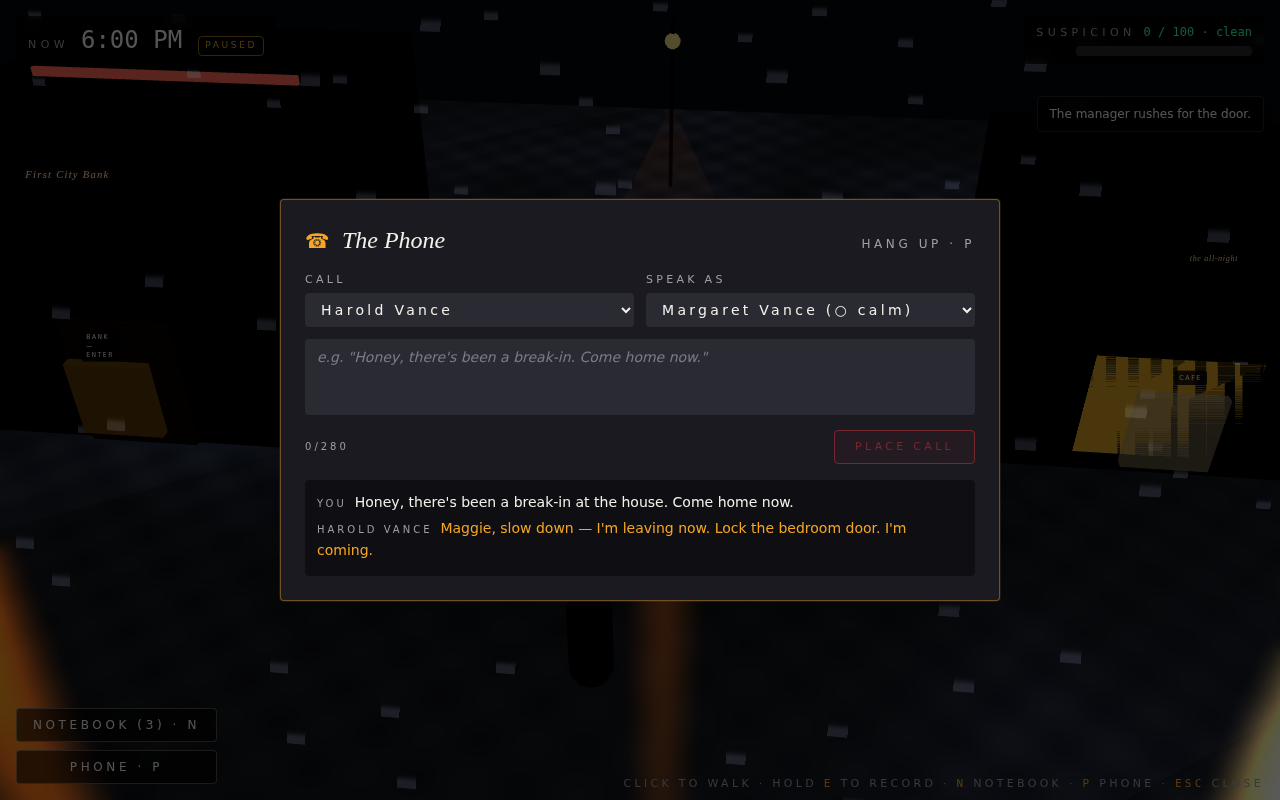
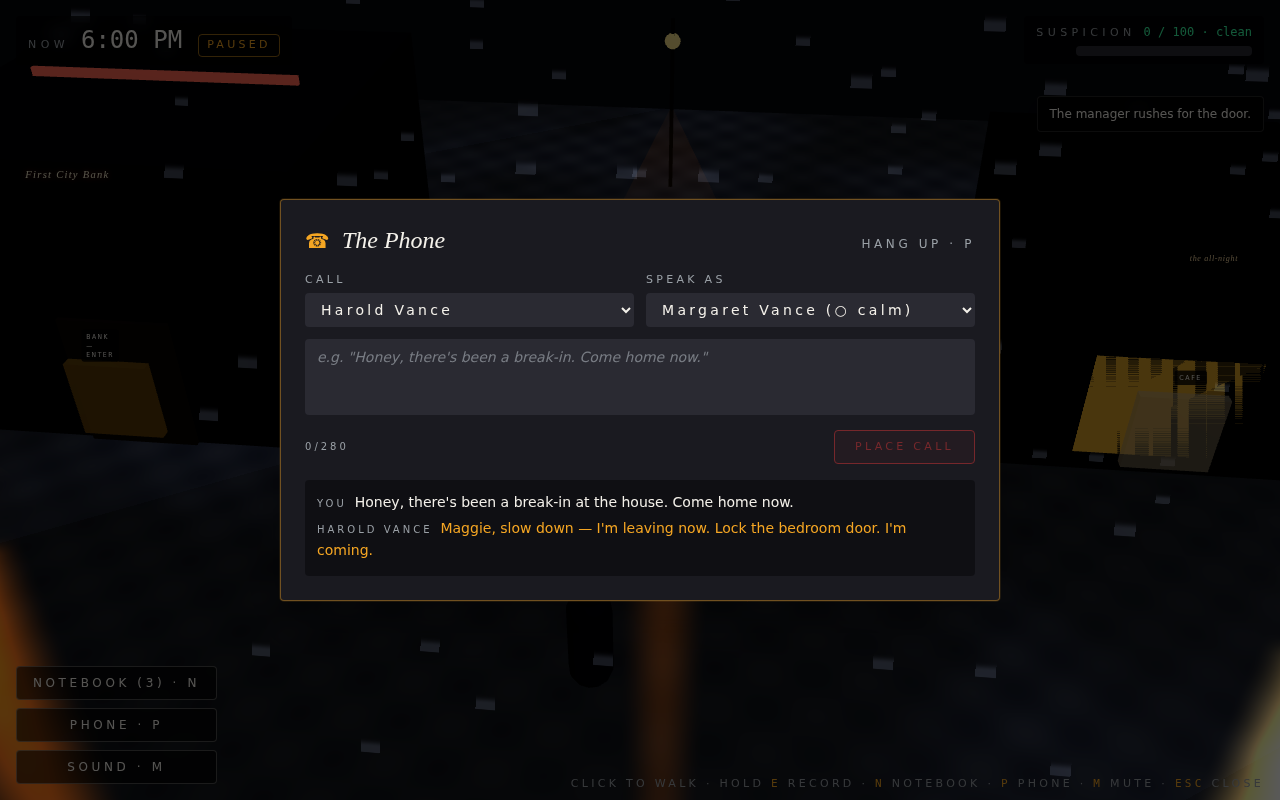
Beta iteration 3: global audio mute + paused badge fix
Accessibility tester flagged 3 follow-ups in the iteration-2 review:
- N3 (minor): the new "PAUSED" badge was 9px — same WCAG floor we just
  raised everything else above. Fixed: bumped to 11px and added role=status
  + aria-live so screen readers announce the pause.
- Most-important remaining fix: no global mute / volume control for
  synthesized speech. Hardcoded 0.85/0.9 audio.volume in PhoneUI and
  VoiceAuthDialog made loud TTS playback unsafe in shared spaces and a
  hard problem for hearing-sensitive players.

Audio control:
- New audioMuted + audioVolume in the store, with toggleMute() and
  setVolume() actions. Volume defaults to 0.85, mute to false. Both
  preserved across reset() so the user pref survives a replay.
- New src/audio/play.ts helper centralises Audio playback respecting
  the global mute + volume.
- PhoneUI and VoiceAuthDialog now route ALL audio through playAudio()
  (caller voice TTS + NPC reply TTS + auth-phrase playback). When muted,
  the playback no-ops cleanly; transcripts and verdicts still display.
- src/audio/npcSpeech.ts (howler-backed scripted dialogue) also reads
  the mute + volume from the store at play time.
- HUD: new third bottom-left button "Sound · M" / "Muted · M" with
  aria-label + aria-pressed. M key globally toggles mute. Persistent
  control strip updated to mention M.

Tests + screenshots:
- E2E suite still passes 38/38.
- docs/test-shots/ refreshed.

Deferred (acknowledged): focus trap on modals, captions overlaying TTS
[…]

diff --git a/src/components/game/HUD.tsx b/src/components/game/HUD.tsx
@@ -27,7 +27,17 @@ export default function HUD() {
   const notebookOpen = useGame((s) => s.notebookOpen);
   const phoneOpen = useGame((s) => s.phoneOpen);
   const activeAuth = useGame((s) => s.activeAuth);
+  const audioMuted = useGame((s) => s.audioMuted);
+  const toggleMute = useGame((s) => s.toggleMute);
   const isPaused = notebookOpen || phoneOpen || activeAuth !== null;
+
+  useEffect(() => {
+    function onKey(e: KeyboardEvent) {
+      if (e.key === "m" || e.key === "M") toggleMute();
+    }
+    window.addEventListener("keydown", onKey);
+    return () => window.removeEventListener("keydown", onKey);
+  }, [toggleMute]);
 
   useRecordingHotkey();
 
@@ -79,7 +89,11 @@ export default function HUD() {
           {clockLabel(time)}
         </span>
         {isPaused && (
-          <span className="ml-1 rounded border border-noir-amber/60 px-1.5 py-0.5 text-[9px] uppercase tracking-[0.3em] text-noir-amber">
+          <span
+            className="ml-1 rounded border border-noir-amber/60 px-2 py-0.5 text-[11px] uppercase tracking-[0.3em] text-noir-amber"
+            role="status"
+            aria-live="polite"
+          >
             paused
           </span>
         )}
@@ -126,12 +140,24 @@ export default function HUD() {
         >
           Phone · P
         </button>
+        <button
+          onClick={() => toggleMute()}
+          aria-label={audioMuted ? "Unmute audio" : "Mute audio"}
+          aria-pressed={audioMuted}
+          className={`rounded border bg-black/60 px-4 py-2 text-xs uppercase tracking-[0.3em] hover:bg-noir-paper hover:text-black focus:outline-none focus-visible:ring-2 focus-visible:ring-noir-amber ${
+            audioMuted
+              ? "border-noir-amber text-noir-amber"
+              : "border-noir-paper/30 text-noir-paper"
+          }`}
+        >
+          {audioMuted ? "Muted · M" : "Sound · M"}
+        </button>
       </div>
 
       {/* Persistent control strip — first-time players never miss this */}
       <div className="pointer-events-none absolute bottom-2 right-4 text-right">
         <p className="text-[11px] uppercase tracking-[0.3em] text-noir-fog">
-          Click to walk · Hold <kbd className="text-noir-amber">E</kbd> to record · <kbd className="text-noir-amber">N</kbd> notebook · <kbd className="text-noir-amber">P</kbd> phone · <kbd className="text-noir-amber">Esc</kbd> close
+          Click to walk · Hold <kbd className="text-noir-amber">E</kbd> record · <kbd className="text-noir-amber">N</kbd> notebook · <kbd className="text-noir-amber">P</kbd> phone · <kbd className="text-noir-amber">M</kbd> mute · <kbd className="text-noir-amber">Esc</kbd> close
         </p>
       </div>
 

diff --git a/src/game/store.ts b/src/game/store.ts
@@ -68,6 +68,8 @@ export const initialState: GameState = {
   notebookOpen: false,
   phoneOpen: false,
   toasts: [],
+  audioMuted: false,
+  audioVolume: 0.85,
 };
 
 export interface GameActions {
@@ -95,6 +97,8 @@ export interface GameActions {
   togglePhone(open?: boolean): void;
   pushToast(text: string, ttlMs?: number): void;
   pruneToasts(now: number): void;
+  toggleMute(value?: boolean): void;
+  setVolume(value: number): void;
   reset(): void;
 }
 
@@ -240,6 +244,19 @@ export const useGame = create<GameState & GameActions>()(
     pruneToasts: (now) =>
       set((s) => ({ toasts: s.toasts.filter((t) => t.expiresAt > now) })),
 
-    reset: () => set({ ...initialState, phase: "title" }),
+    toggleMute: (value) =>
+      set((s) => ({ audioMuted: value !== undefined ? value : !s.audioMuted })),
+
+    setVolume: (value) =>
+      set({ audioVolume: Math.max(0, Math.min(1, value)) }),
+
+    reset: () =>
+      set((s) => ({
+        ...initialState,
+        phase: "title",
+        // Preserve user audio prefs across resets
+        audioMuted: s.audioMuted,
+        audioVolume: s.audioVolume,
+      })),
   })),
 );

diff --git a/src/components/game/PhoneUI.tsx b/src/components/game/PhoneUI.tsx
@@ -5,6 +5,7 @@ import { useGame } from "@/game/store";
 import { NPC_PROFILES } from "@/config/voices";
 import { setBranch } from "@/game/npcSchedules";
 import { emotionGlyph } from "@/game/emotionDisplay";
+import { playAudio } from "@/audio/play";
 import type { NpcId } from "@/game/types";
 
 const TARGETS: NpcId[] = ["bankManager", "secretary", "bankGuard", "wife"];
@@ -94,9 +95,9 @@ export default function PhoneUI() {
         npcAudio: string | null;
       };
 
-      if (data.callerAudio) playDataUrl(data.callerAudio);
+      if (data.callerAudio) playAudio(data.callerAudio);
       pushCallTurn({ role: "npc", text: data.npcText });
-      if (data.npcAudio) setTimeout(() => playDataUrl(data.npcAudio!), 600);
+      if (data.npcAudio) setTimeout(() => playAudio(data.npcAudio!), 600);
 
       if (data.raisedSuspicion > 0) {
         raiseSuspicion(data.raisedSuspicion, `${target} grew suspicious`);
@@ -260,10 +261,3 @@ export default function PhoneUI() {
   );
 }
 
-function playDataUrl(url: string) {
-  try {
-    const audio = new Audio(url);
-    audio.volume = 0.85;
-    audio.play().catch(() => {});
-  } catch {}
-}

diff --git a/src/components/game/VoiceAuthDialog.tsx b/src/components/game/VoiceAuthDialog.tsx
@@ -5,6 +5,7 @@ import { useGame } from "@/game/store";
 import { NPC_PROFILES } from "@/config/voices";
 import { AUTH_REQUIREMENTS } from "@/game/solutionValidator";
 import { emotionGlyph } from "@/game/emotionDisplay";
+import { playAudio } from "@/audio/play";
 import type { AuthAttempt } from "@/game/types";
 
 const DEVICE_LABELS: Record<AuthAttempt["device"], string> = {
@@ -58,11 +59,7 @@ export default function VoiceAuthDialog() {
         reason: string;
         audio: string | null;
       };
-      if (data.audio) {
-        const a = new Audio(data.audio);
-        a.volume = 0.9;
-        a.play().catch(() => {});
-      }
+      if (data.audio) playAudio(data.audio);
       setVerdict({ passes: data.passes, reason: data.reason });
       if (data.passes) {
         setTimeout(() => {

diff --git a/src/audio/npcSpeech.ts b/src/audio/npcSpeech.ts
@@ -1,6 +1,7 @@
 "use client";
 
 import { Howl } from "howler";
+import { useGame } from "@/game/store";
 import type { NpcId } from "@/game/types";
 
 const activeSounds = new Map<NpcId, Howl>();
@@ -11,10 +12,12 @@ function urlForMoment(momentId: string): string {
 
 export function startNpcAudio(npcId: NpcId, momentId: string): void {
   stopNpcAudio(npcId);
+  const { audioMuted, audioVolume } = useGame.getState();
+  if (audioMuted) return;
   const url = urlForMoment(momentId);
   const sound = new Howl({
     src: [url],
-    volume: 0.85,
+    volume: audioVolume,
     html5: true,
     onloaderror: () => {},
     onplayerror: () => {},

diff --git a/src/audio/play.ts b/src/audio/play.ts
@@ -1,0 +1,21 @@
+"use client";
+
+import { useGame } from "@/game/store";
+
+/**
+ * Play a base64 data: URL (or any audio src) respecting the global mute
+ * + volume settings from the store. No-op when muted.
+ */
+export function playAudio(src: string | null): HTMLAudioElement | null {
+  if (!src) return null;
+  const { audioMuted, audioVolume } = useGame.getState();
+  if (audioMuted) return null;
+  try {
+    const audio = new Audio(src);
+    audio.volume = audioVolume;
+    audio.play().catch(() => {});
+    return audio;
+  } catch {
+    return null;
+  }
+}

diff --git a/src/game/types.ts b/src/game/types.ts
@@ -87,6 +87,8 @@ export interface GameState {
   notebookOpen: boolean;
   phoneOpen: boolean;
   toasts: { id: string; text: string; expiresAt: number }[];
+  audioMuted: boolean;
+  audioVolume: number;
 }
 
 export const GAME_START_SECONDS = 18 * 3600;
